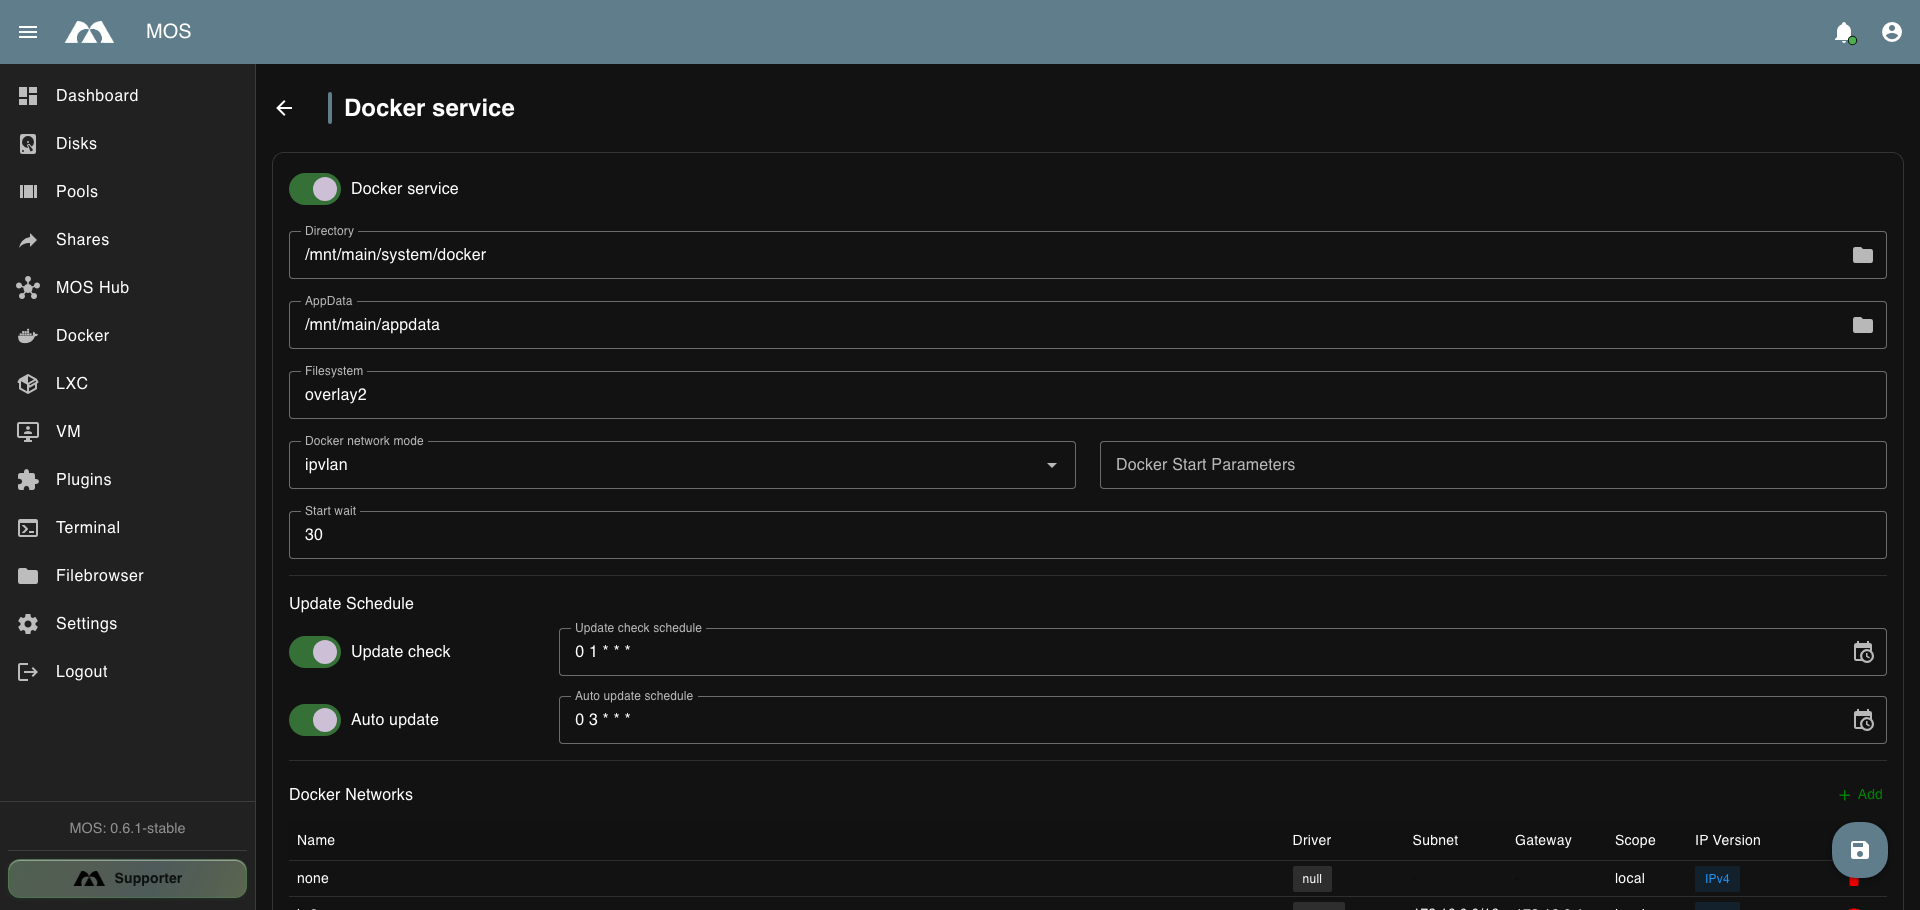
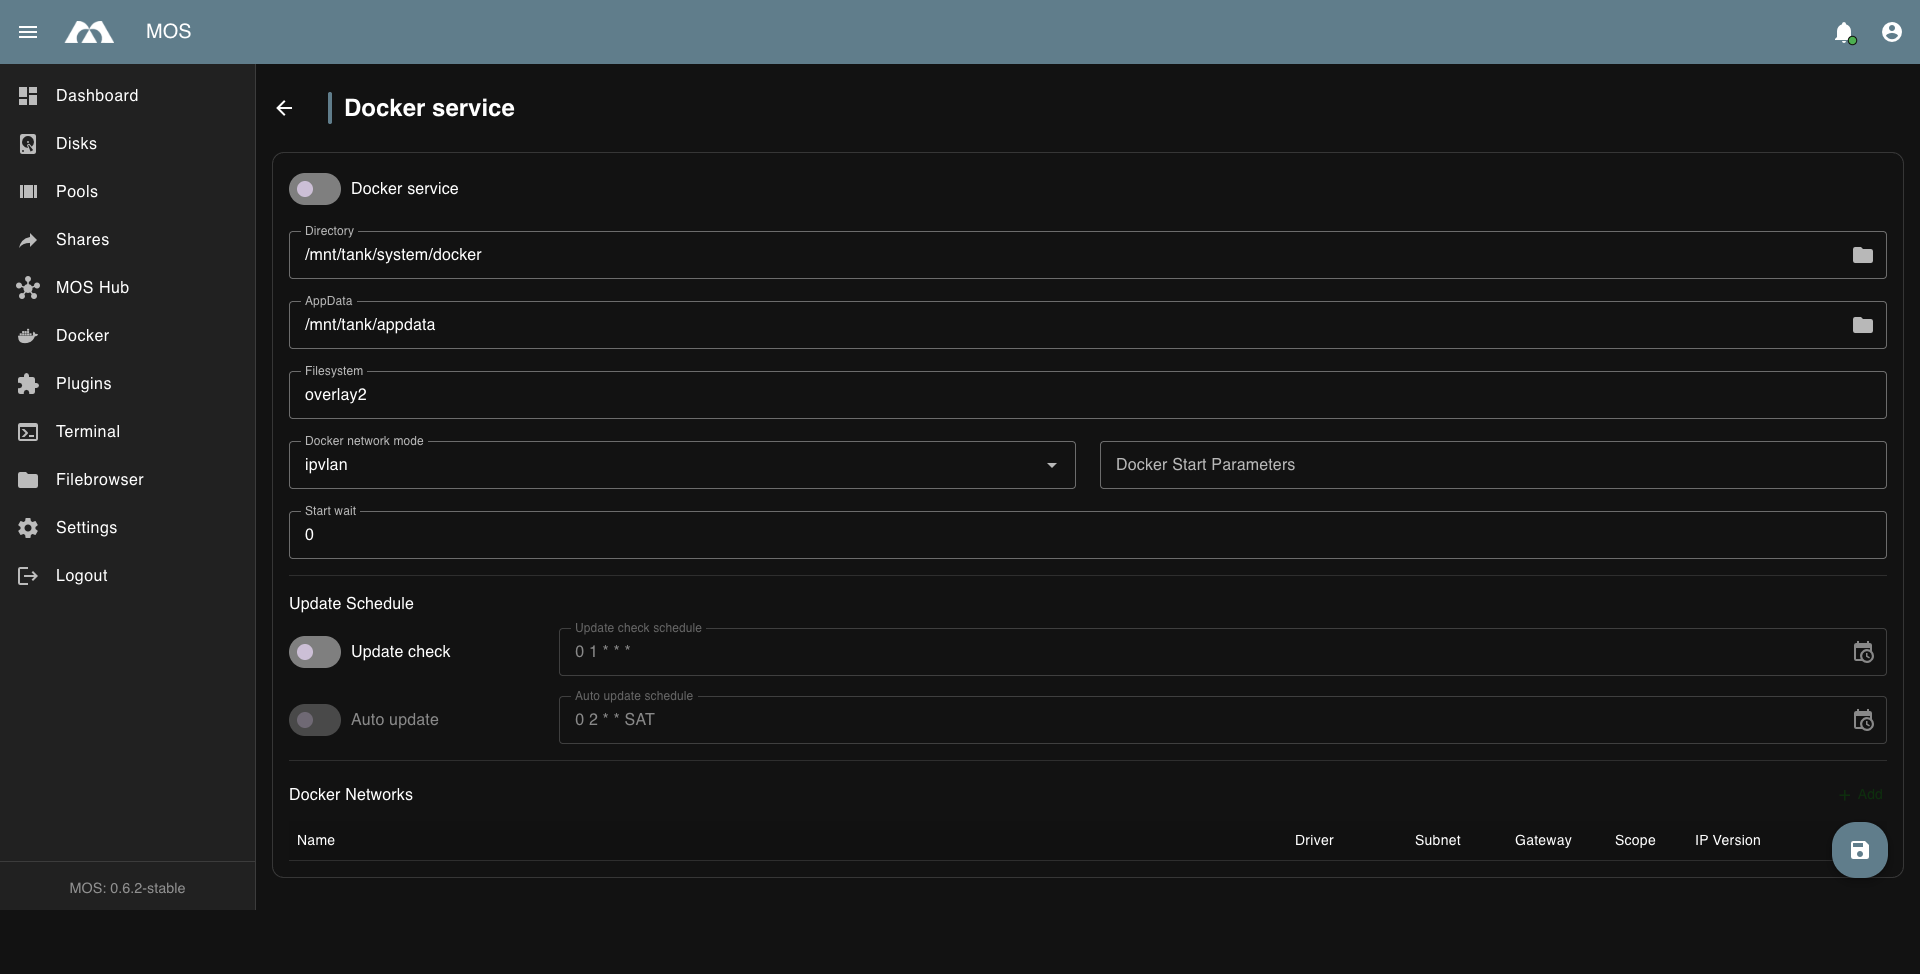
Edit Docker

diff --git a/docs/Docker/Start-the-First-Container.md b/docs/Docker/Start-the-First-Container.md
@@ -399,19 +399,4 @@ MOS Hub is the **recommended starting point** for new users.
 
 ---
 
-## ✅ Summary
-
-To start your first container in MOS, follow these steps:
-
-1. Configure and enable the **Docker Service**
-2. Choose your deployment method:
-   - **MOS Hub** — easy template-based deployment *(recommended for beginners)*
-   - **Docker** — manual or advanced configuration
-3. Verify storage paths and network settings
-4. Start and manage containers from the Docker overview
-
-Once Docker is configured, MOS becomes a **powerful platform** for running applications and services.
-
----
-
 _Parts of this documentation were created with the assistance of AI tools. All AI-generated content has undergone review, but it may still contain inaccuracies, omissions, or outdated information._
